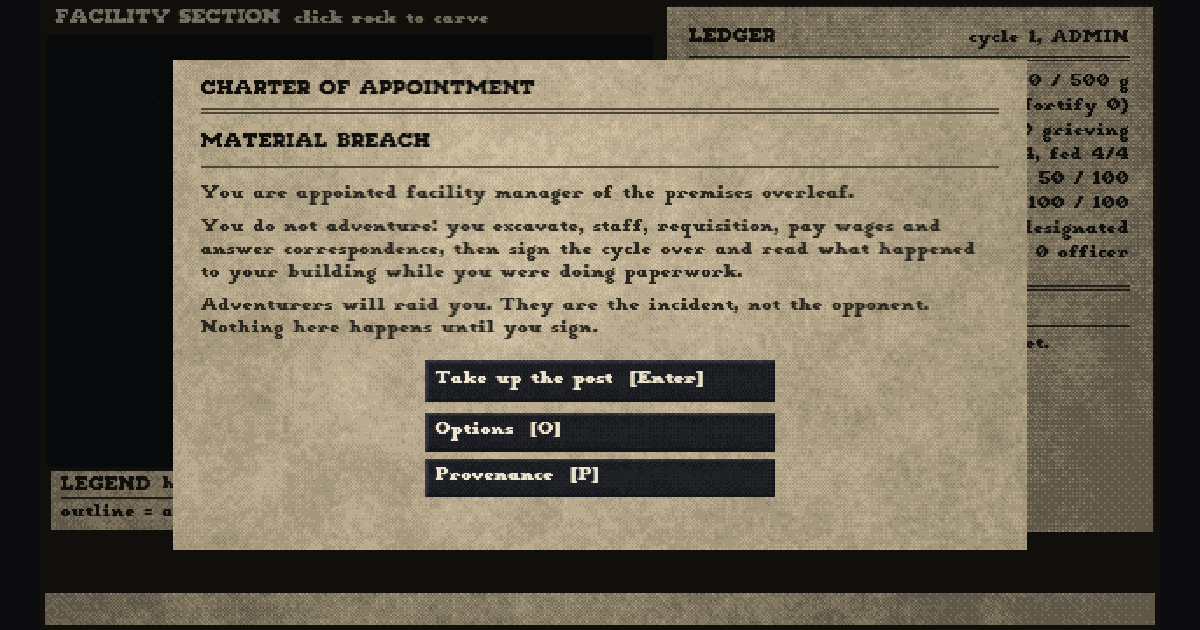
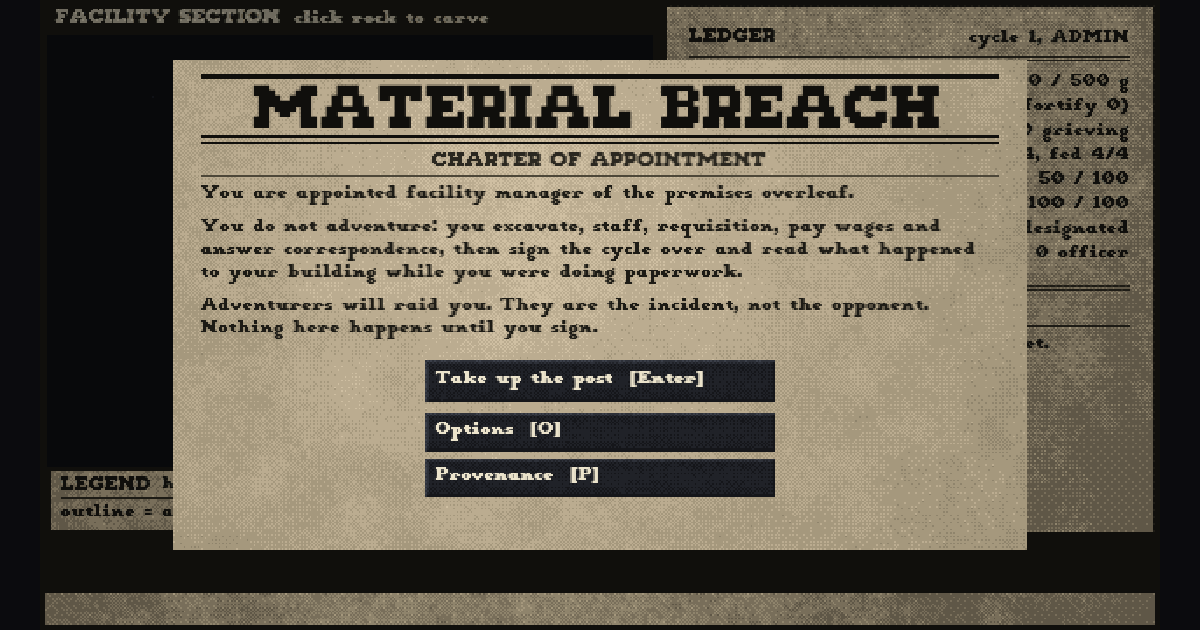
field-trials: MATERIAL BREACH masthead build + refreshed OG card (Ray-approved opening)

Changed region(s): [[0.1542, 0.0905, 0.8325, 0.3016]]

diff --git a/public/field-trials/material-breach/index.html b/public/field-trials/material-breach/index.html
@@ -5178,7 +5178,7 @@ const { housingCapacity, foodCapacity, openPosts, DEPT_ARCHETYPE } = require('st
 const { OFFICER, INSTRUMENT_NAME } = require('ladder');
 const { detentionCapacity, CONFIG: CFG } = require('model');
 const { C, RAMPS, TEXT_PAIRS: PALETTE_TEXT_PAIRS } = require('palette');
-const { composeSection, composePaper, composeDesk, composeButton, darkenPixels, sceneSignature, castPlacements } = require('scene');
+const { composeSection, composePaper, composeDesk, composeButton, darkenPixels, sceneSignature, castPlacements, SHEET_CALM } = require('scene');
 const { FACE, SIZE, LEAD, font, MIN_TEXT_PX: TYPE_MIN } = require('type');
 const { PROVENANCE, PROVENANCE_TITLE } = require('provenance');
 // The section's drawing area, between the header strip and the title block. A section drawing has a
@@ -5291,6 +5291,17 @@ function textRight(ctx, str, rightX, y, color, size = SIZE.body, face = FACE.bod
   ctx.font = font(size, face);
   const w = ctx.measureText(str).width;
   text(ctx, str, rightX - w, y, color, size, face);
+}
+
+// Centre a string on a column. Letterhead is set on the sheet's axis, not on its left margin, so
+// the masthead and its subtitle both come through here. The x is floored to a whole pixel: the
+// buffer is integer-scaled, and a glyph run starting on a half pixel is a blurred glyph run.
+// Returns the measured width, because the rules drawn around a masthead have to know how wide it is.
+function textCenter(ctx, str, centerX, y, color, size = SIZE.body, face = FACE.body) {
+  ctx.font = font(size, face);
+  const w = ctx.measureText(str).width;
+  text(ctx, str, Math.floor(centerX - w / 2), y, color, size, face);
+  return w;
 }
 
 function band(ctx, r, fill) {
@@ -5713,8 +5724,61 @@ function drawActionBar(ctx, view) {
   ctx.restore();
 }
 
+// ---- the charter's letterhead ---------------------------------------------------------------
+//
+// Ray's verdict on the opening was that the charter "does not read at all as a title screen". It
+// did not, and the reason was a hierarchy that stated the wrong thing first: CHARTER OF APPOINTMENT
+// was set as the sheet's title at 11px and MATERIAL BREACH sat UNDER it as a second 11px line, so
+// the largest, first, boldest thing on a stranger's first screen was the name of a form, and the
+// name of the game was a subordinate entry on it.
+//
+// So the two swap ranks. The game's name becomes a MASTHEAD at 33px across the sheet's axis between
+// letterpress rules, and the form's name is demoted to what it always was — the document's subtitle,
+// printed under the masthead the way a real letterhead carries "CERTIFICATE OF ..." under the
+// institution that issued it. The seed law is untouched: this is still a document on a desk, with
+// its own paper, its own shadow and the drawing lit behind it. Nothing floats.
+//
+// A masthead is a BLOCK, not a heading with a bigger number on it, and it has to pay for itself.
+// It does, exactly: the old header spent 72px (the sheet top to the first line of copy) on an 11px
+// title, a double rule, an 11px name and another rule, most of it air. The block below spends the
+// SAME 72px and lands the copy on the SAME first line. So tripling the size of the name costs the
+// charter's six copy lines, the three controls and the desk slip below the sheet exactly nothing —
+// which is the point, because "copy that does not fit is copy that does not ship" is this file's
+// own law and a masthead paid for by deleting a sentence would be breaking it.
+//
+// Every offset is measured from the top of the sheet, and CHARTER_COPY_TOP is the contract with
+// the copy that follows.
+const MASTHEAD = {
+  ruleTop: 8, // 3px. The letterhead's top edge.
+  name: 15, // 33px display, ink running 15..39 from the sheet top.
+  ruleUnder: 43, // 2px.
+  ruleUnderThin: 47, // 1px. With the rule above it this is a double rule, which is what an
+  // official sheet actually carries under its masthead.
+  subtitle: 53, // 11px display: the document's own title, demoted beneath the name.
+  ruleFoot: 66, // 1px hairline, dividing the printed letterhead from the entered copy.
+};
+const CHARTER_COPY_TOP = 72;
+
+// Draw the letterhead into an overlay sheet. Returns the y the entered copy starts on.
+function letterhead(ctx, r, name, subtitle) {
+  const left = r.x + 16;
+  const width = r.w - 32;
+  const axis = r.x + r.w / 2;
+  rule(ctx, left, r.y + MASTHEAD.ruleTop, width, C.inkBody, 3);
+  textCenter(ctx, name, axis, r.y + MASTHEAD.name, C.inkBody, SIZE.masthead, FACE.display);
+  rule(ctx, left, r.y + MASTHEAD.ruleUnder, width, C.inkBody, 2);
+  rule(ctx, left, r.y + MASTHEAD.ruleUnderThin, width, C.inkBody, 1);
+  textCenter(ctx, subtitle, axis, r.y + MASTHEAD.subtitle, C.inkSecondary, SIZE.title, FACE.display);
+  rule(ctx, left, r.y + MASTHEAD.ruleFoot, width, C.inkRule, 1);
+  return r.y + CHARTER_COPY_TOP;
+}
+
 // An overlay is a document laid on the desk, not a dialog box.
-function overlayBox(ctx, view, title) {
+//
+// `masthead`, when given, replaces the sheet's ordinary title band with the letterhead block above
+// and demotes `title` to the subtitle inside it. Only the charter passes it: every other overlay is
+// a form the player is already holding, and a form does not re-announce the game.
+function overlayBox(ctx, view, title, masthead = null) {
   // §4.5 item 2, applied to the one surface that was still breaking it. This used to be
   // `fillStyle = 'rgba(6,6,8,0.82)'` across the finished frame: a translucent grey painted over
   // lit art, which is the exact technique the stack forbids. Now every pixel is stepped down its
@@ -5734,13 +5798,21 @@ function overlayBox(ctx, view, title) {
   const sh = ctx.getImageData(r.x + 3, r.y + r.h, r.w, 3);
   darkenPixels(sh.data, 1.6, r.w);
   ctx.putImageData(sh, r.x + 3, r.y + r.h);
-  const paper = composePaper(r, 'overlay');
+  // SHEET_CALM: an overlay sheet is the one surface in the game carrying running prose, so its weave
+  // composes quieter than the ledger's (scene.js carries the argument, including why the Bayer term
+  // stays at full strength and only the two fbm terms come down). The sheet still has fibre,
+  // unevenness and a lamp falling across it; what comes down is the tonal wander under a paragraph.
+  const paper = composePaper(r, 'overlay', SHEET_CALM);
   const image = ctx.createImageData(paper.w, paper.h);
   image.data.set(paper.data);
   ctx.putImageData(image, r.x, r.y);
-  text(ctx, title, r.x + 16, r.y + 12, C.inkBody, SIZE.title, FACE.display);
-  rule(ctx, r.x + 16, r.y + 28, r.w - 32, C.inkRule);
-  rule(ctx, r.x + 16, r.y + 30, r.w - 32, C.inkRule);
+  if (masthead) {
+    letterhead(ctx, r, masthead, title);
+  } else {
+    text(ctx, title, r.x + 16, r.y + 12, C.inkBody, SIZE.title, FACE.display);
+    rule(ctx, r.x + 16, r.y + 28, r.w - 32, C.inkRule);
+    rule(ctx, r.x + 16, r.y + 30, r.w - 32, C.inkRule);
+  }
   return r;
 }
 
@@ -5750,18 +5822,15 @@ function drawOverlay(ctx, view) {
   if (view.overlay === 'title') {
     // The title is a document too, because everything in this game is: the charter the post is held
     // under, laid on the desk like everything else. A game about paperwork should not open with a
-    // logo floating in space.
+    // logo floating in space — so the game's name is not a logo here, it is the MASTHEAD PRINTED ON
+    // THE CHARTER (see letterhead() above), which is how an institution puts its name on a sheet.
     //
     // The copy is written as PARAGRAPHS and wrapped by the renderer. The first version hard-wrapped
     // each line by hand AND then passed it through wrap(), so every line that overran the column
     // was broken again and left a one-word orphan under it, and the last paragraph ran underneath
     // the controls. Text that is wrapped twice is wrapped wrong.
-    const r = overlayBox(ctx, view, 'CHARTER OF APPOINTMENT');
-    let y = r.y + 42;
-    text(ctx, 'MATERIAL BREACH', r.x + 16, y, C.inkBody, SIZE.title, FACE.display);
-    y += SIZE.title + 8;
-    rule(ctx, r.x + 16, y, r.w - 32, C.inkRule);
-    y += 11;
+    const r = overlayBox(ctx, view, 'CHARTER OF APPOINTMENT', 'MATERIAL BREACH');
+    let y = r.y + CHARTER_COPY_TOP;
     // The controls begin at 206; the copy must finish above them.
     const copyFloor = 198;
     // Three paragraphs that fit SIX lines above the controls. The first arrangement needed seven,
@@ -5776,7 +5845,7 @@ function drawOverlay(ctx, view) {
     ];
     for (let i = 0; i < charterParas.length; i++) {
       const para = charterParas[i];
-      y = wrap(ctx, para, r.x + 16, y, r.w - 32, C.inkSecondary, SIZE.body, copyFloor);
+      y = wrap(ctx, para, r.x + 16, y, r.w - 32, C.inkCopy, SIZE.body, copyFloor);
       if (i < charterParas.length - 1) y += 6;
     }
     if (view.resumable && y + SIZE.body <= copyFloor) {
@@ -5785,8 +5854,26 @@ function drawOverlay(ctx, view) {
     // B1/Q1: always draw the notice when it exists. The sheet is full — the charter's six
     // lines own everything above the controls, so a notice forced inside overdraws the copy.
     // It is a separate slip left on the desk BELOW the document, where nothing else draws.
+    //
+    // AND THE SLIP IS MADE OF PAPER, which it was not. Moving the notice out from under the
+    // charter fixed the overdraw and left it set in stampInk — a PAPER ink — directly on the dark
+    // desk. Measured on the built artifact at the moment this round was checked: 1.27:1 against the
+    // desk under it, where this game's own floor is 4.5:1. It was legible the way a thing you
+    // already know the wording of is legible. The palette has no red bright enough to fix by
+    // recolouring, either: the brightest stamp step still only reaches 4.24:1 on the desk.
+    //
+    // So the slip becomes what its name already said it was. A notice left on a desk is a piece of
+    // paper, and this renderer's standing answer to "light letterform on a busy dark ground" is to
+    // print it on manila instead (the title block and the status strip both went the same way, for
+    // the same reason). stampInk on paper is a pairing Gate 5 already measures.
     if (view.saveNotice) {
-      wrap(ctx, `Save notice: ${view.saveNotice}`, r.x + 16, r.y + r.h + 8, r.w - 32, C.stampInk, SIZE.body, SCREEN.h - 12);
+      const msg = `Save notice: ${view.saveNotice}`;
+      const slipW = r.w - 16;
+      const inner = slipW - 20;
+      const top = r.y + r.h + 6;
+      const slip = { x: r.x + 8, y: top, w: slipW, h: Math.min(measureWrap(ctx, msg, inner, SIZE.body) + 9, SCREEN.h - 4 - top) };
+      paperStrip(ctx, slip, `saveslip:${slip.h}`);
+      wrap(ctx, msg, slip.x + 10, slip.y + 5, inner, C.stampInk, SIZE.body, slip.y + slip.h - 2);
     }
   } else if (view.overlay === 'options') {
     const r = overlayBox(ctx, view, 'OPTIONS');
@@ -5796,7 +5883,7 @@ function drawOverlay(ctx, view) {
       r.x + 16,
       r.y + 42,
       r.w - 32,
-      C.inkSecondary,
+      C.inkCopy,
       SIZE.body,
       160,
     );
@@ -5822,7 +5909,7 @@ function drawOverlay(ctx, view) {
         text(ctx, line, r.x + 16, y, C.inkBody, SIZE.title, FACE.display);
         y += SIZE.title + 5;
       } else {
-        y = wrap(ctx, line, r.x + 16, y, r.w - 32, C.inkSecondary, SIZE.body, floor);
+        y = wrap(ctx, line, r.x + 16, y, r.w - 32, C.inkCopy, SIZE.body, floor);
       }
     }
   } else if (view.overlay === 'orientation') {
@@ -5833,7 +5920,7 @@ function drawOverlay(ctx, view) {
         y += 6;
         continue;
       }
-      y = wrap(ctx, line, r.x + 16, y, r.w - 32, C.inkSecondary, SIZE.body, bottom(r));
+      y = wrap(ctx, line, r.x + 16, y, r.w - 32, C.inkCopy, SIZE.body, bottom(r));
     }
   } else if (view.overlay === 'checklist') {
     const r = overlayBox(ctx, view, 'PRE-COMMIT CHECKLIST');
@@ -5851,9 +5938,9 @@ function drawOverlay(ctx, view) {
       ['Cornerstone', `${s.cornerstone} / 100`],
     ];
     for (const [label, value] of rows) y = row(ctx, label, value, y, C.inkBody, left, right);
-    for (const d of s.openOrdersDetail) y = wrap(ctx, d, left + 8, y, r.w - 40, C.inkSecondary, SIZE.body, bottom(r));
+    for (const d of s.openOrdersDetail) y = wrap(ctx, d, left + 8, y, r.w - 40, C.inkCopy, SIZE.body, bottom(r));
     y += 6;
-    y = wrap(ctx, `Intel. ${s.intel}`, left, y, r.w - 32, C.inkSecondary, SIZE.body, bottom(r));
+    y = wrap(ctx, `Intel. ${s.intel}`, left, y, r.w - 32, C.inkCopy, SIZE.body, bottom(r));
     y += 6;
     wrap(ctx, 'Signing over resolves the cycle. Nothing resolves until you sign.', left, y, r.w - 32, C.inkBody, SIZE.body, bottom(r));
   } else if (view.overlay === 'pause') {
@@ -5871,7 +5958,7 @@ function drawOverlay(ctx, view) {
         y += 6;
         continue;
       }
-      y = wrap(ctx, k, r.x + 16, y, r.w - 32, C.inkSecondary, SIZE.body, bottom(r));
+      y = wrap(ctx, k, r.x + 16, y, r.w - 32, C.inkCopy, SIZE.body, bottom(r));
     }
   } else if (view.overlay === 'error') {
     const r = overlayBox(ctx, view, 'FACILITY ERROR SURFACE');
@@ -5880,7 +5967,7 @@ function drawOverlay(ctx, view) {
     y += 6;
     y = wrap(ctx, view.errorMessage || 'unknown error', r.x + 16, y, r.w - 32, C.inkBody, SIZE.body, bottom(r));
     y += 6;
-    wrap(ctx, 'Export the debug log for the full record.', r.x + 16, y, r.w - 32, C.inkSecondary, SIZE.body, bottom(r));
+    wrap(ctx, 'Export the debug log for the full record.', r.x + 16, y, r.w - 32, C.inkCopy, SIZE.body, bottom(r));
   } else if (view.overlay === 'closed') {
     const r = overlayBox(ctx, view, 'TENURE CLOSED');
     const left = r.x + 16;
@@ -5893,7 +5980,7 @@ function drawOverlay(ctx, view) {
     y = row(ctx, 'Lowest solvency recorded', `${f.tenure.lowestSolvency} g`, y, C.inkBody, left, right);
     y = row(ctx, 'Cornerstone at close', `${f.lossObject.condition} / 100`, y, C.inkBody, left, right);
     y += 8;
-    wrap(ctx, 'The closing report is filed. No commendation attaches to the outcome.', left, y, r.w - 32, C.inkSecondary, SIZE.body, bottom(r));
+    wrap(ctx, 'The closing report is filed. No commendation attaches to the outcome.', left, y, r.w - 32, C.inkCopy, SIZE.body, bottom(r));
   }
 }
 
@@ -5922,6 +6009,7 @@ const MIN_TEXT_PX = TYPE_MIN;
 const TEXT_PAIRS = PALETTE_TEXT_PAIRS;
 
 exports.describeCell = describeCell;
+exports.CHARTER_COPY_TOP = CHARTER_COPY_TOP;
 exports.render = render;
 exports.RENDER_INFO = RENDER_INFO;
 exports.MIN_TEXT_PX = MIN_TEXT_PX;
@@ -6021,9 +6109,15 @@ const FACE = Object.freeze({
   body: '"MB Serif", Georgia, serif',
 });
 
-// The scale. Three sizes, all integer multiples of the 11px design size except the small rank,
-// which exists only for the drawing's annotations and is still above the old 8px floor.
+// The scale. Every size is an INTEGER MULTIPLE of the 11px design size, and that multiple-of-11
+// rule is the whole of the law: a pixel face set at 9, 10 or 17px has its pixel edges land between
+// device pixels and blurs, while the same face at 22 or 33px lands every edge on a whole pixel and
+// stays exactly as crisp as it was cut. Measured on the shipped faces before the masthead was
+// drawn: "MATERIAL BREACH" advances 131.53 / 263.05 / 394.58px at 11 / 22 / 33px, an exact 1x / 2x
+// / 3x with square stems at all three, while the same string at 17px visibly degrades. So what the
+// law forbids is OFF-SIZES, not large type, and the masthead rank below sits inside it.
 const SIZE = Object.freeze({
+  masthead: 33, // 3x. The game's name on the charter, and nothing else: this is letterhead type.
   title: 11, // panel titles and section headings, in DISPLAY
   body: 11, // every ledger row, every figure, every notice, in BODY
   note: 11, // annotations on the drawing, in BODY
@@ -6392,15 +6486,46 @@ function composeSection(f, geo, panel, view) {
   return { w, h, data };
 }
 
-// composePaper(panel, seed) -> { w, h, data } — the ledger's sheet of aged manila.
+// composePaper(panel, seed, weave) -> { w, h, data } — the ledger's sheet of aged manila.
 //
 // The lit half of the desk gets the same treatment as the dark half, because §4.5 item 4 means
 // EVERYTHING draws from the palette: the paper has fibre (fbm), a dither so the tone breaks up
 // rather than banding, and a light that falls off toward the edges of the sheet the way a sheet
 // under a desk lamp does. It depends on nothing but its own geometry, so it is composed once.
-function composePaper(panel, seed = 'material-breach') {
+//
+// THE WEAVE is a parameter because a sheet that carries a ledger and a sheet that carries three
+// paragraphs of prose are not asking the same thing of their texture. A ruled row of figures is
+// read in glances and the busy tone under it is atmosphere; a paragraph is read stroke by stroke,
+// and the same tone competes with the letterforms at every stem. Ray's verdict on the opening was
+// that the body was "tough to read with the CRT dither", so overlay sheets compose at SHEET_CALM.
+//
+// WHICH TERM IS ACTUALLY THE PROBLEM is not the one the symptom names, and it was measured rather
+// than assumed. The first attempt did the obvious thing and halved the Bayer term along with the
+// fibre — and the sheet got visibly WORSE: the paper broke into big soft blotches with hard edges.
+// That is BANDING. The lamp fall-off alone swings the index over two whole ramp steps across the
+// sheet, and the ±0.5 dither is exactly what lets a fractional index resolve as a mix of the two
+// adjacent steps instead of snapping to one. Take the dither below ±0.5 and every smooth gradient
+// on the sheet quantises into visible step patches. The dither is not the noise; it is the
+// mechanism that keeps the noise from becoming banding.
+//
+// What actually reads as "busy" under a paragraph is the fbm: the FINE fibre at a 3.2px scale, and
+// the COARSE unevenness that makes the sheet's tone wander from one step to another underneath a
+// line of text. Bringing those two down and leaving the Bayer term at full strength gives an even,
+// finely-grained sheet with no blotching — measurably the calmest of six variants composed and
+// compared side by side before this was chosen. It still has fibre, unevenness and a lamp falling
+// across it, so it is quieter paper rather than flat grey card.
+const PAPER_WEAVE = Object.freeze({ fibre: 0.85, uneven: 0.7, dither: 1 });
+
+// The weave for a sheet with running copy on it. Both fbm terms at moderate strength; the Bayer
+// dither at full strength, because it is load-bearing against banding (see above).
+const SHEET_CALM = Object.freeze({ fibre: 0.4, uneven: 0.45, dither: 1 });
+
+function composePaper(panel, seed = 'material-breach', weave = PAPER_WEAVE) {
   const w = panel.w;
   const h = panel.h;
+  const fibre = weave.fibre ?? PAPER_WEAVE.fibre;
+  const uneven = weave.uneven ?? PAPER_WEAVE.uneven;
+  const ditherAmp = weave.dither ?? PAPER_WEAVE.dither;
   const data = new Uint8ClampedArray(w * h * 4);
   const noise = grainFor(`paper:${seed}`);
   const cx = w * 0.42;
@@ -6411,9 +6536,9 @@ function composePaper(panel, seed = 'material-breach') {
       // A soft fall-off from the lamp, expressed as ramp steps rather than a painted gradient.
       const fall = 1 - Math.hypot(x - cx, y - cy) / maxR;
       let idx = 3.1 + fall * 2.1;
-      idx += (noise.fbm(x / 3.2, y / 3.2, 4) - 0.5) * 2 * 0.85; // paper fibre, fine and busy
-      idx += (noise.fbm(x / 26, y / 26, 3) - 0.5) * 2 * 0.7; // the sheet's own unevenness
-      idx += dither(x, y) - 0.5;
+      idx += (noise.fbm(x / 3.2, y / 3.2, 4) - 0.5) * 2 * fibre; // paper fibre, fine and busy
+      idx += (noise.fbm(x / 26, y / 26, 3) - 0.5) * 2 * uneven; // the sheet's own unevenness
+      idx += (dither(x, y) - 0.5) * ditherAmp;
       writeStep(data, (y * w + x) * 4, 'paper', idx);
     }
   }
@@ -6649,6 +6774,7 @@ exports.facilityLamps = facilityLamps;
 exports.castPlacements = castPlacements;
 exports.sceneSignature = sceneSignature;
 exports.composeSection = composeSection;
+exports.SHEET_CALM = SHEET_CALM;
 exports.composePaper = composePaper;
 exports.composeDesk = composeDesk;
 exports.composeButton = composeButton;
@@ -6931,6 +7057,14 @@ const C = Object.freeze({
   paperShade: RAMPS.paper[2],
   paperEdge: RAMPS.ink[3],
   inkBody: RAMPS.ink[0],
+  // RUNNING COPY on an overlay sheet: the charter's paragraphs, the credits, the key list. It used
+  // to be set in inkSecondary (ink[2]) along with every other subordinate mark, and Ray's verdict on
+  // the opening was that the body was "tough to read with the CRT dither". Prose is not a caption:
+  // it is the thing a player has to READ, at length, on a ground that has fibre and a dither in it.
+  // So it gets its own rank, one step darker than a secondary label and one step lighter than a
+  // heading — the hierarchy survives (headings stay ink[0], labels and captions stay ink[2]) and the
+  // paragraphs stop fighting their own paper.
+  inkCopy: RAMPS.ink[1],
   inkSecondary: RAMPS.ink[2],
   inkRule: RAMPS.ink[4],
 
@@ -7026,6 +7160,9 @@ const TEXT_PAIRS = Object.freeze([
   { name: 'section label on the cutaway', fg: C.sectionLabel, bg: C.sectionVoid },
   { name: 'section text on the cutaway', fg: C.sectionText, bg: C.sectionVoid },
   { name: 'ledger body ink on paper', fg: C.inkBody, bg: C.paperBase },
+  { name: 'overlay running copy on paper', fg: C.inkCopy, bg: C.paperBase },
+  { name: 'overlay running copy on the paper highlight', fg: C.inkCopy, bg: C.paperHigh },
+  { name: 'overlay running copy on the paper shade', fg: C.inkCopy, bg: C.paperShade },
   { name: 'ledger secondary ink on paper', fg: C.inkSecondary, bg: C.paperBase },
   { name: 'ledger body ink on the paper highlight', fg: C.inkBody, bg: C.paperHigh },
   { name: 'ledger secondary ink on the paper highlight', fg: C.inkSecondary, bg: C.paperHigh },
